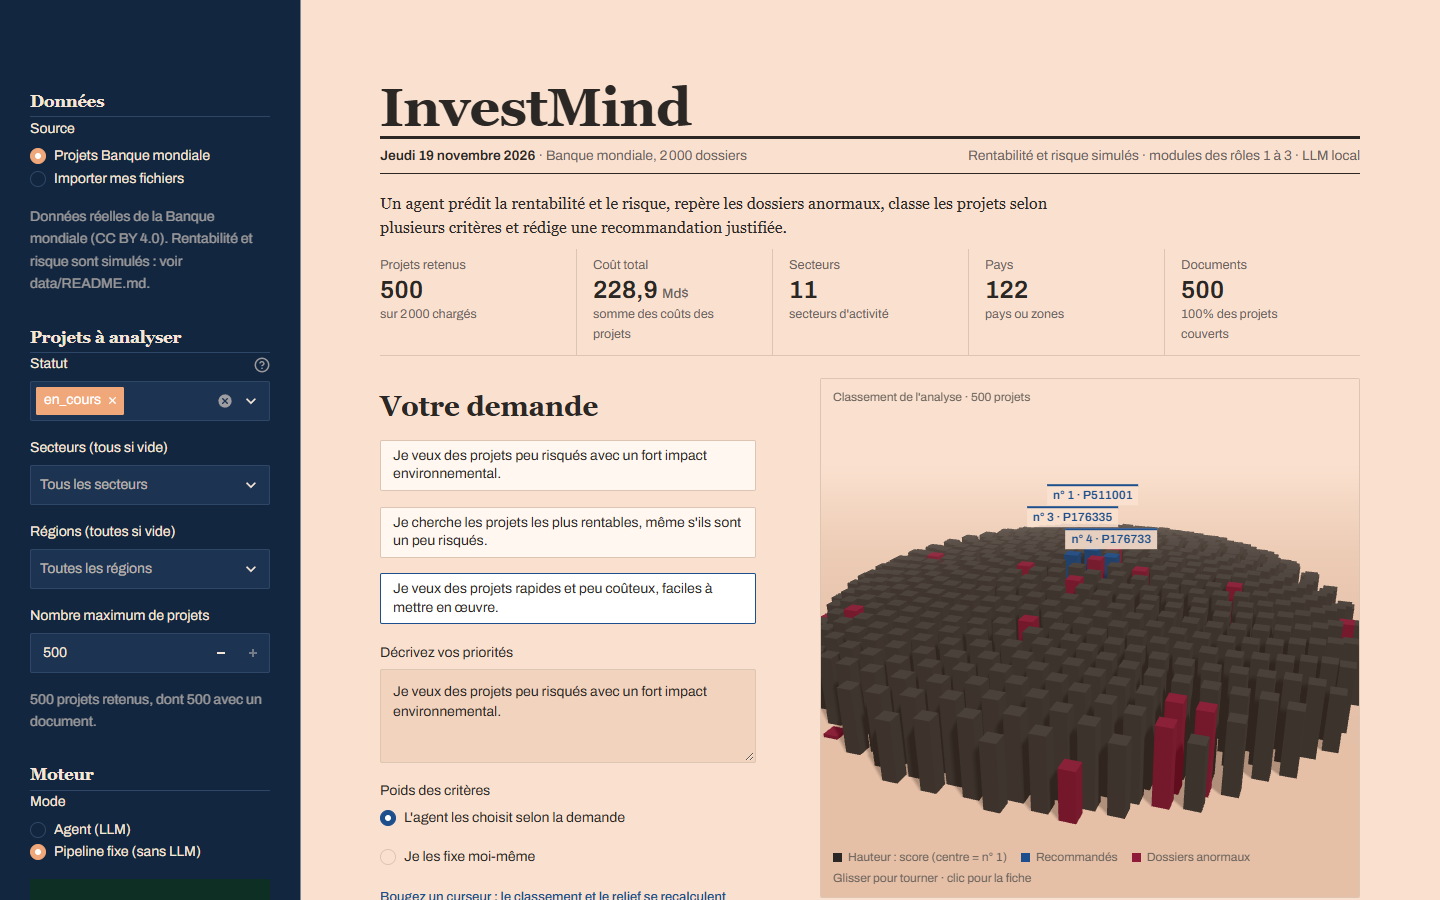
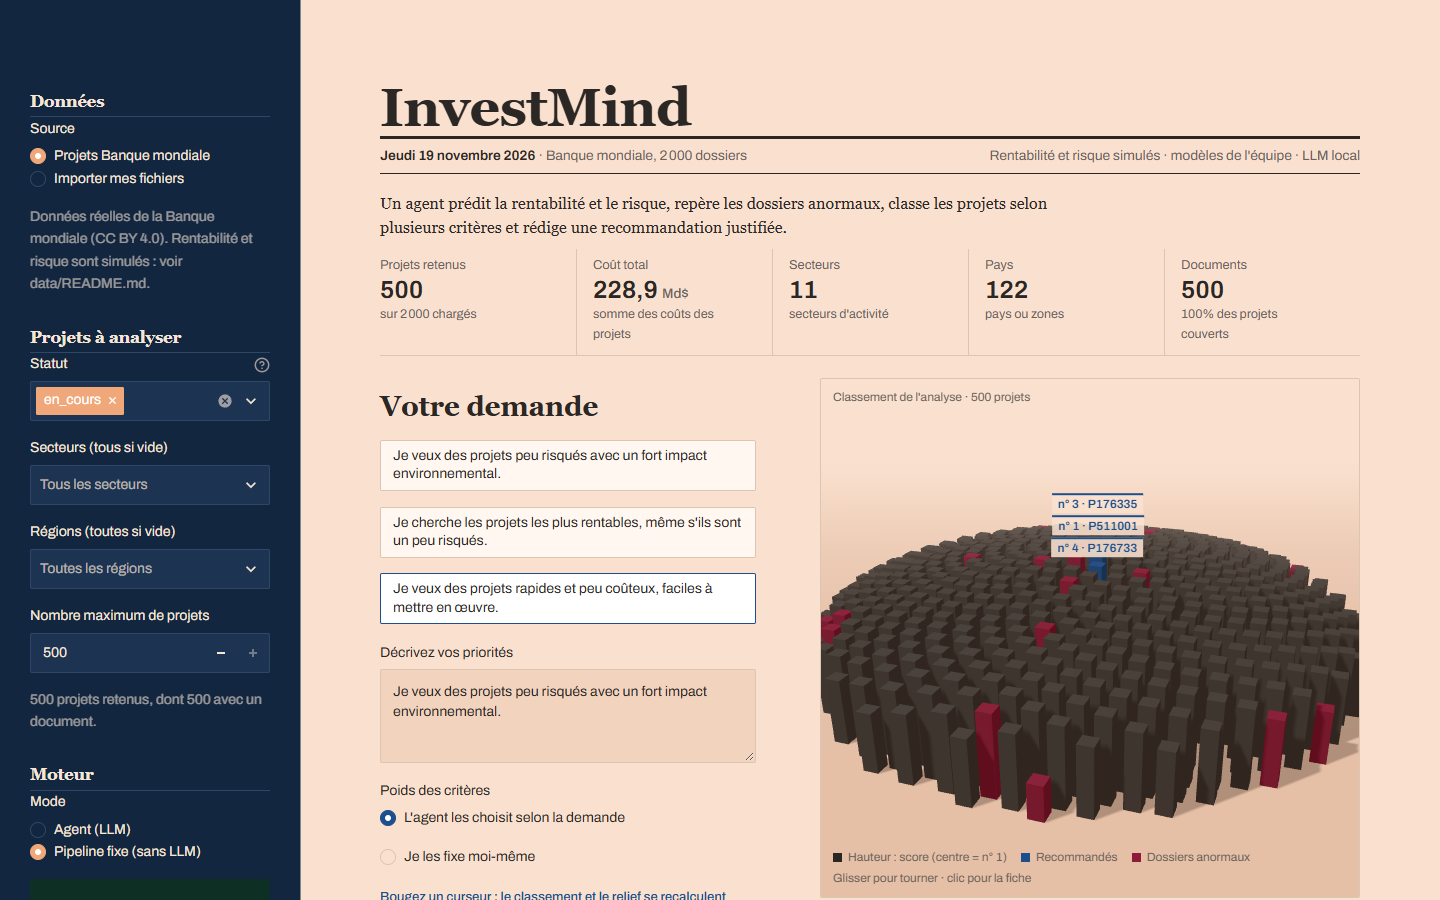
Relecture complète : documentation, plan et rapports mis à jour, libellés de l'application, capture refaite

diff --git a/app/app.py b/app/app.py
@@ -4,7 +4,7 @@ L'application ne calcule rien elle-même : elle charge les projets, transmet la
 demande à l'agent (src/agent.py) et affiche ce qu'il rend. Lancement :
     streamlit run app/app.py
 
-Trois fichiers l'accompagnent dans ce dossier :
+Ce dossier contient aussi :
 - style.css      : l'habillage (papier saumon, manchette, cartes, journal) ;
 - composants.py  : les blocs écrits en HTML (bandeau, cartes, alerte, journal) ;
 - graphiques.py  : les graphiques Plotly, dont le nuage 3D ;
@@ -168,7 +168,7 @@ def afficher_classement(classement: pd.DataFrame) -> None:
     afficher_graphique(graphiques.figure_meilleurs_scores(classement))
     st.subheader("Classement complet")
     tableau = classement[[c for c in COLONNES_TABLEAU if c in classement]]
-    if "anomalie" in tableau:  # lignes des dossiers anormaux sur fond rouge sombre
+    if "anomalie" in tableau:  # lignes des dossiers anormaux sur fond rose pâle
         surligner = lambda ligne: ["background-color: #f7dcd9; color: #5c0f24" if ligne["anomalie"] else ""] * len(ligne)  # noqa: E731
         tableau = tableau.style.apply(surligner, axis=1).format(precision=3, decimal=",")
     st.dataframe(tableau, hide_index=True, width="stretch", column_config=COLONNES_TABLEAU)
@@ -457,7 +457,7 @@ with st.sidebar:
     st.caption(f"Modules : {outils.description_modules()}")
 
 reels = outils.modules_reels()
-modules = ("fonctions factices" if not reels else "modules des rôles 1 à 3" if not outils.utilise_mocks()
+modules = ("fonctions factices" if not reels else "modèles de l'équipe" if not outils.utilise_mocks()
            else "modules réels : " + ", ".join(sorted(reels)))
 afficher_html(f'<div class="manchette"><span><b>{composants.propre(date_du_jour().capitalize())}</b> · '
               f'Banque mondiale, {composants.nombre(nb_charges)} dossiers</span>'

diff --git a/src/agent.py b/src/agent.py
@@ -45,7 +45,8 @@ FICHIER_RELANCE = FICHIER_PROMPT.with_name("relance.txt")  # message envoyé apr
 CRITERES_TEXTE = ("impact_env_social", "alignement_strategique", "faisabilite")
 NOTE_NEUTRE = 3  # note donnée à un projet sans document lisible
 NB_RECOMMANDES = 3
-# retrieve cherche dans tout le corpus : on demande large, puis on garde les passages des projets analysés.
+# On demande large à retrieve, puis on garde les passages des projets analysés (indispensable avec une
+# version de retrieve sans le paramètre documents, qui cherche dans tout le corpus).
 NB_PASSAGES_CHERCHES = 50
 DELAI_LLM_S = 600  # attente maximale d'une réponse du LLM, en secondes (OLLAMA_TIMEOUT pour changer)
 TAILLE_CONTEXTE = 8192  # jetons gardés en mémoire par le LLM : prompt, outils et résumés doivent y tenir

diff --git a/src/outils.py b/src/outils.py
@@ -45,7 +45,7 @@ def description_modules() -> str:
     if not reels:
         return "fausses fonctions (USE_MOCKS=1)"
     if reels == set(MODULES):
-        return "vrais modules des rôles 1 à 3"
+        return "modèles de l'équipe (supervisé, multicritère, NLP)"
     return f"vrais modules : {', '.join(sorted(reels))} ; fausses fonctions pour les autres"
 
 

diff --git a/docs/architecture.md b/docs/architecture.md
@@ -1,4 +1,4 @@
-# Architecture (rôle 4)
+# Architecture de l'agent et de l'application
 
 ## Vue d'ensemble
 
@@ -27,7 +27,7 @@ src/outils.py  (par défaut : vrais modules | USE_MOCKS=1 : src/mocks.py)
 3. `predire` : `predict` sur chaque projet, pour la rentabilité et le risque.
 4. `detecter_anomalies` : `detect_anomalies` sur l'ensemble.
 5. `classer(poids)` : construit la matrice des sept critères et appelle `rank`.
-6. `chercher_passages(question, k)` : `retrieve`, pour citer un passage qui justifie la recommandation. La question est écrite en anglais par le LLM, comme les documents. L'agent transmet à `retrieve` les documents des projets analysés (paramètre `documents`, contrat du 18 novembre), puis garde par sécurité les `k` premiers passages qui viennent de ces projets. Avec une version de `retrieve` sans ce paramètre, il demande 50 passages sur tout le corpus et filtre de la même façon.
+6. `chercher_passages(question, k)` : `retrieve`, pour citer un passage qui justifie la recommandation. La description de l'outil demande une question en anglais, la langue des documents ; si le LLM n'appelle pas l'outil, l'agent le fait lui-même (voir plus bas). L'agent transmet à `retrieve` les documents des projets analysés (paramètre `documents`, contrat du 18 novembre), puis garde par sécurité les `k` premiers passages qui viennent de ces projets. Avec une version de `retrieve` sans ce paramètre, il demande 50 passages sur tout le corpus et filtre de la même façon.
 7. Rédiger la recommandation : les trois premiers projets, pourquoi, les alertes, les limites.
 
 L'ordre n'est pas imposé en dur : le LLM choisit les outils. Le prompt système (`prompts/systeme.txt`) décrit la démarche attendue, et les tests vérifient le comportement avec un faux LLM.
@@ -52,14 +52,14 @@ L'ordre n'est pas imposé en dur : le LLM choisit les outils. Le prompt système
 - **comparaison** exigée par la consigne : on compare l'agent (le LLM choisit les outils et les poids) à ce modèle simple (ordre fixe, poids par défaut ou imposés) ;
 - **secours** pour la démonstration si Ollama ne tourne pas.
 
-Sur les 2 000 projets avec les fausses fonctions, il répond en moins d'une seconde (hors lecture des 2 000 fichiers texte).
+Avec les quatre modules de l'équipe, il analyse 500 projets en 3 à 5 secondes (moins d'une seconde une fois les modèles chargés).
 
 ## Décisions prises
 
 | Sujet | Décision | Raison |
 |---|---|---|
 | LLM | Ollama en local | Gratuit, choix de l'équipe |
-| Modèle | `qwen2.5:3b` par défaut (variable `OLLAMA_MODEL`) | Gère l'appel d'outils sans phase de réflexion : environ 1 minute par analyse sur le PC d'Ilyas. `qwen3:4b` a été écarté, trop lent (voir les essais ci-dessous) |
+| Modèle | `qwen2.5:3b` par défaut (variable `OLLAMA_MODEL`) | Gère l'appel d'outils sans phase de réflexion : environ deux minutes par analyse avec les vrais modules, sur un PC portable sans carte graphique. `qwen3:4b` a été écarté, trop lent (voir les essais ci-dessous) |
 | Contrôle de la recommandation | `controler_recommandation` ajoute au texte du LLM les projets à recommander et les dossiers anormaux qu'il a oubliés | Un modèle de 3 milliards de paramètres oublie des faits ; ce qui peut se vérifier par le code ne doit pas dépendre de lui |
 | Outils du LLM | Cinq outils qui traitent tout le portefeuille | Un appel par projet serait impossible avec 2 000 projets |
 | Boucle de l'agent | Boucle Python maison avec l'appel d'outils du paquet `ollama`, retenue pour la version finale | Une trentaine de lignes, faciles à expliquer. Un cadriciel comme LangGraph n'apporterait rien ici |
@@ -68,15 +68,14 @@ Sur les 2 000 projets avec les fausses fonctions, il répond en moins d'une seco
 | Branchement des modules | `src/outils.py` avec `USE_MOCKS`, ou `MODULES_REELS` module par module (par exemple `MODULES_REELS=nlp`) | Permet d'avancer sans attendre les autres rôles, et d'essayer chaque module dès sa livraison |
 | Déploiement | Démonstration locale filmée | Ollama ne tourne pas sur l'hébergement Streamlit gratuit |
 
-## Décisions ouvertes
+## Décisions prises en cours de route
 
-- 18 nov. : `chercher_passages` presque jamais demandé par `qwen2.5:3b`. Tranché : la recherche est lancée d'office après `classer` (voir « La recherche de passages d'office »).
+- 18 nov. : `chercher_passages` presque jamais demandé par `qwen2.5:3b`. La recherche est lancée d'office après `classer` (voir « La recherche de passages d'office »).
+- 16 et 19 nov. : le prompt système est gardé dans sa formulation d'origine. Deux reformulations essayées le 16 et une modification du 18 ont déplacé les erreurs au lieu de les supprimer (`reports/role4/tests_agent.md`, erreurs E3 et E8).
 
-- Le prompt système est gardé tel quel après deux essais de reformulation qui ont déplacé les erreurs au lieu de les supprimer (même rapport).
+## Évaluation sur cinq scénarios (16 et 19 novembre)
 
-## Évaluation du 16 novembre sur cinq scénarios
-
-Cinq demandes, 30 projets en cours, deux passages, agent et `pipeline_fixe` : protocole, résultats et analyse des erreurs dans `reports/role4/tests_agent.md`. Les scénarios et les vérifications automatiques sont dans `src/scenarios.py`, l'évaluation se relance avec `python scripts/evaluer_agent.py --passages 2`.
+Cinq demandes, 30 projets en cours, deux passages, agent et `pipeline_fixe`, avec les fausses fonctions le 16 novembre puis avec les quatre vrais modules le 19 : protocole, résultats et analyse des erreurs dans `reports/role4/tests_agent.md`. Les scénarios et les vérifications automatiques sont dans `src/scenarios.py`, l'évaluation se relance avec `python scripts/evaluer_agent.py --passages 2`.
 
 Deux corrections de `src/agent.py` en sont sorties :
 
@@ -101,7 +100,7 @@ PC : Ryzen 5 7520U, 16 Go de mémoire, calcul sur processeur. Demande : « Je ve
 - Avec le prompt système et les cinq outils, un seul tour a demandé environ 4 600 jetons de réflexion : 10 minutes par tour lors d'un premier essai, 33 minutes lors d'une mesure isolée. L'essai complet a été arrêté après deux tours (20 minutes).
 - Les outils choisis étaient les bons (`extraire_criteres`, `predire`, `detecter_anomalies`, `classer`), mais `extraire_criteres` a été appelé deux fois et `classer` sans poids. Le contexte par défaut d'Ollama (4 096 jetons) était dépassé par la réflexion ; il est maintenant fixé à 8 192.
 
-Conclusion : l'agent n'est pas utilisable en démonstration avec ce modèle sur ce PC. Pistes : un modèle sans réflexion de taille voisine (par exemple `qwen2.5:3b` ou `llama3.2:3b`), à mesurer de la même façon. En attendant, un délai de 600 secondes par réponse (`OLLAMA_TIMEOUT`) fait basculer l'agent sur le secours sans LLM.
+Conclusion : l'agent n'est pas utilisable en démonstration avec ce modèle sur ce PC. `qwen2.5:3b`, sans phase de réflexion, a été mesuré de la même façon et retenu (section précédente). Le délai de 600 secondes par réponse (`OLLAMA_TIMEOUT`) reste en place : au-delà, l'agent bascule sur le secours sans LLM.
 
 ## Application
 
@@ -111,7 +110,7 @@ Trois zones :
 
 - **barre latérale** (bleu nuit) : source des données (jeu Banque mondiale ou fichiers importés), filtres, mode (agent ou pipeline fixe), comparaison, état d'Ollama ;
 - **haut de page** : manchette (nom du produit, date, rappel que rentabilité et risque sont simulés), bandeau de chiffres du portefeuille retenu, puis deux colonnes : à gauche la demande, ses trois exemples, les poids et le bouton « Analyser » ; à droite le relief 3D du portefeuille et la fiche du projet cliqué ;
-- **résultats**, en onglets : Recommandation (cartes des trois projets, alerte sur les dossiers anormaux, texte rédigé), Classement (dix meilleurs scores et tableau complet), Vue 3D (nuage Plotly), Journal des étapes, Explication (poids utilisés, graphique SHAP à venir), Comparaison (agent face au pipeline fixe).
+- **résultats**, en onglets : Recommandation (cartes des trois projets, alerte sur les dossiers anormaux, texte rédigé), Classement (dix meilleurs scores et tableau complet), Vue 3D (nuage Plotly), Journal des étapes, Explication (graphique SHAP du modèle de rentabilité, poids utilisés), Comparaison (agent face au pipeline fixe).
 
 ### Fichiers
 
@@ -144,7 +143,7 @@ Streamlit relance tout le script à chaque clic. Pour éviter cet effet de page 
 - le relief 3D reste le même d'un clic à l'autre : seules ses données changent, et les colonnes glissent vers leur nouvelle place.
 - avec les vrais modules (le défaut), les modèles de texte de `extract` et `retrieve` sont chargés dès l'ouverture de l'application (`prechauffer_modeles`, mis en cache) : la première analyse ne paie pas leur chargement, une quinzaine de secondes.
 
-Ce qui reste lent : l'analyse par l'agent (environ une minute, le LLM tourne sur le processeur).
+Ce qui reste lent : l'analyse par l'agent (environ deux minutes, le LLM tourne sur le processeur).
 
 ### Relief 3D
 

diff --git a/docs/organisation/plan-role4.md b/docs/organisation/plan-role4.md
@@ -17,13 +17,13 @@ Dernière mise à jour : 20 novembre 2026.
 | 1 | Créer le dépôt Git et inviter l'équipe | Réunion de lancement | dim. 15 nov. | terminé (dépôt public créé le 16 nov., équipe invitée, branche `main` protégée, relecture obligatoire) | Dépôt GitHub avec la structure de dossiers |
 | 2 | Fausses fonctions | Contrat commun | lun. 16 nov. | terminé | `src/mocks.py`, `src/contrat.py`, `tests/test_contrat.py` |
 | 3 | Coder l'agent | Tâche 2 | jeu. 19 nov. | terminé (16 nov. : essai réel réussi avec `qwen2.5:3b` en 58 s ; qualité à mesurer à la tâche 5) | `src/agent.py`, `prompts/systeme.txt`, `tests/test_agent.py`. Cinq outils sur tout le portefeuille, `pipeline_fixe` comme référence et secours |
-| 4 | Coder l'application Streamlit | Tâches 2 et 3. Graphique SHAP du rôle 1 (factice en attendant) | ven. 20 nov. | terminé (16 nov. : application codée et redessinée ; graphique SHAP factice en attendant le rôle 1) | `app/app.py`, `app/composants.py`, `app/graphiques.py`, `app/style.css`, `.streamlit/config.toml`, `tests/test_app.py` |
-| 5 | Tester l'agent sur 5 scénarios | Tâche 3 | sam. 21 nov. | terminé avec les fausses fonctions (16 nov. : 5 scénarios, 2 passages, agent et pipeline fixe ; à refaire après la tâche 6 avec `python scripts/evaluer_agent.py --passages 2`) | `tests/test_agent.py`, `reports/role4/tests_agent.md`, `src/scenarios.py`, `scripts/evaluer_agent.py`, `reports/role4/scenarios/resultats_scenarios.csv` |
+| 4 | Coder l'application Streamlit | Tâches 2 et 3. Graphique SHAP du rôle 1 | ven. 20 nov. | terminé (16-17 nov. : application codée et redessinée ; 19 nov. : graphique SHAP du rôle 1 branché) | `app/app.py`, `app/composants.py`, `app/graphiques.py`, `app/style.css`, `.streamlit/config.toml`, `tests/test_app.py` |
+| 5 | Tester l'agent sur 5 scénarios | Tâche 3 | sam. 21 nov. | terminé (16 nov. avec les fausses fonctions, refait le 19 nov. avec les vrais modules) | `tests/test_agent.py`, `reports/role4/tests_agent.md`, `src/scenarios.py`, `scripts/evaluer_agent.py`, `reports/role4/scenarios/resultats_scenarios.csv` |
 | 6 | Intégration des vrais modules | IMPOSSIBLE avant `predict` (rôle 1), `rank` (rôle 2), `extract` et `retrieve` (rôle 3), attendus le 21 | mar. 24 nov. | terminé (19 nov. : les quatre modules sur `main`, 5 scénarios relancés avec `USE_MOCKS=0`, voir `reports/role4/tests_agent.md` section 9) | Application complète en local |
-| 7 | Déploiement ou démonstration locale | Tâche 6 | mar. 24 nov. | bloqué | Démonstration prête à filmer |
-| 8 | README final | Tâche 6, sources des données | mer. 25 nov. | en cours (18 nov. : version complète, à vérifier après l'intégration) | `README.md` |
+| 7 | Déploiement ou démonstration locale | Tâche 6 | mar. 24 nov. | prête (19 nov. : application lancée avec les quatre modules, captures dans `docs/images/` ; vidéo le 28) | Démonstration prête à filmer |
+| 8 | README final | Tâche 6, sources des données | mer. 25 nov. | terminé (19-20 nov. : README final, captures, badges, licence) | `README.md` |
 | 9 | Partie du rapport (LLM, agents, architecture, tests) | Tâche 5, puis tâche 6 pour les résultats | brouillon sam. 21, final ven. 27 | brouillon complet (19 nov. : résultats d'intégration ajoutés), version finale le 27 | 4 à 6 pages, 3 à 4 diapositives |
-| 10 | Assembler rapport et présentation | Parties des rôles 1, 2 et 3 | ven. 27 nov. | bloqué | Rapport et PowerPoint complets |
+| 10 | Assembler rapport et présentation | Parties des rôles 1, 2 et 3 | ven. 27 nov. | à faire (les quatre brouillons sont livrés) | Rapport et PowerPoint complets |
 
 ## Jalons communs
 
@@ -47,3 +47,4 @@ Dernière mise à jour : 20 novembre 2026.
 - 18 nov. : brouillon de la partie 4 du rapport (`reports/role4/rapport_partie4.md`) : théorie (LLM, prompt, appel d'outils, agents, RAG), architecture, choix du modèle, méthode et résultats de l'évaluation, analyse des erreurs, limites, plan des diapositives. Résultats avec les vrais modules à ajouter après la tâche 6.
 - 18 nov. : README réécrit : présentation, rôles et modules, installation (Ollama, modèle d'embeddings), lancement de l'application, variables d'environnement, tests, reproduction des résultats (données, recherche, agent), données et mise en garde sur les cibles simulées, limites, équipe, licences.
 - 19 nov. : les quatre modules livrés et fusionnés après relecture (31 pull requests). Intégration : 5 scénarios relancés avec les vrais modules ; une erreur introduite par la modification du prompt du 18 nov. (exemple recopié, demande hors sujet analysée) diagnostiquée et corrigée en rétablissant la formulation d'origine. Graphique SHAP du rôle 1 dans l'application. Produit renommé InvestMind ; README final avec captures.
+- 20 nov. : nettoyage du dépôt (rangement de `reports/role4/` et `docs/organisation/`, versions figées, licence MIT, tests sur GitHub Actions), vrais modules par défaut dans l'application, relecture complète des fichiers.

diff --git a/reports/role4/tests_agent.md b/reports/role4/tests_agent.md
@@ -8,7 +8,7 @@ Vérifier que l'agent se comporte correctement sur des demandes variées, et le 
 
 **Ce qui est évalué.** Le comportement de l'agent : outils demandés, poids tirés de la demande, fidélité du texte aux chiffres rendus par les outils, honnêteté quand il ne sait pas.
 
-**Ce qui n'est pas évalué.** La qualité des prédictions, des notes et du classement. Les modules des rôles 1, 2 et 3 ne sont pas encore livrés : les essais tournent avec les fausses fonctions (`USE_MOCKS=1`). Les rentabilités, risques et notes sont donc factices, et aucun projet cité ici n'est réellement « bon » ou « mauvais ».
+**Ce qui n'est pas évalué.** La qualité des prédictions, des notes et du classement. Sections 2 à 8 : essais du 16 novembre, quand les modules des rôles 1, 2 et 3 n'étaient pas encore livrés ; les essais tournent avec les fausses fonctions (`USE_MOCKS=1`). Les rentabilités, risques et notes sont donc factices, et aucun projet cité ici n'est réellement « bon » ou « mauvais ».
 
 ## 2. Protocole
 
@@ -52,7 +52,7 @@ Pour les trois projets et l'alerte, on distingue le texte écrit par le LLM et l
 
 **Limite sur les passages.** La fausse fonction `retrieve` ne connaît que cinq documents d'exemple (P001 à P005). Sur les 30 projets réels, `chercher_passages` ne trouve donc jamais rien. La seule réponse honnête est « Passage cité : aucun ». Ce cas teste bien l'honnêteté, mais pas la qualité des citations.
 
-## 3. Résultats (état final du code)
+## 3. Résultats du 16 novembre (fausses fonctions)
 
 Fichier : `reports/role4/scenarios/resultats_scenarios.csv`. Textes complets : `reports/role4/scenarios/sorties_scenarios.json`.
 
@@ -185,7 +185,7 @@ Chaque erreur observée, sa cause probable et ce qui a été fait.
 
 ## 7. Limites
 
-- **Chiffres factices.** Avec les fausses fonctions, seul le comportement de l'agent est jugé. L'évaluation est à refaire après l'intégration (`USE_MOCKS=0`), avec le même script.
+- **Chiffres factices.** Avec les fausses fonctions, seul le comportement de l'agent est jugé. L'évaluation a été refaite avec les vrais modules le 19 novembre (section 9).
 - **Citations non testées.** La fausse recherche ne trouve rien sur les projets réels.
 - **Petit modèle.** `qwen2.5:3b` (3,1 milliards de paramètres) est sensible à la formulation du prompt et recopie plus qu'il ne rédige. Un modèle plus gros n'a pas pu être essayé sur ce matériel dans un délai utilisable.
 - **Petit échantillon.** 30 projets, 5 demandes, 2 passages : assez pour repérer des erreurs, pas pour donner un taux de réussite fiable.
@@ -199,10 +199,12 @@ Chaque erreur observée, sa cause probable et ce qui a été fait.
 | `src/scenarios.py` | Les cinq scénarios, les 30 projets, les vérifications |
 | `scripts/evaluer_agent.py` | Lance l'évaluation (`--passages`, `--scenarios`, `--suffixe`) |
 | `tests/test_agent.py` | Les scénarios en tests : pipeline fixe (sans LLM) et vrai modèle (`python -m pytest -m llm`) |
-| `reports/role4/scenarios/resultats_scenarios.csv`, `sorties_scenarios.json` | État final du code |
-| `reports/*_avant_corrections.*` | Première évaluation, avant toute correction |
-| `reports/*_correction1.*` | Scénario 1 relancé après la correction E1 |
-| `reports/*_essai_crochets.*`, `*_essai_alertes.*` | Les deux reformulations du prompt, non gardées |
+| `reports/role4/scenarios/resultats_scenarios_integration.csv`, `sorties_scenarios_integration.json` | Évaluation finale, avec les quatre vrais modules (19 novembre, section 9) |
+| `reports/role4/scenarios/resultats_scenarios.csv`, `sorties_scenarios.json` | Évaluation du 16 novembre, fausses fonctions, après les corrections E1 et E2 |
+| `reports/role4/scenarios/*_avant_corrections.*` | Première évaluation, avant toute correction |
+| `reports/role4/scenarios/*_correction1.*` | Scénario 1 relancé après la correction E1 |
+| `reports/role4/scenarios/*_essai_crochets.*`, `*_essai_alertes.*` | Les deux reformulations du prompt, non gardées |
+| `reports/role4/scenarios/*_integration_prompt18nov.*`, `*_diagnostic*` | Erreur E8 : évaluation avec le prompt du 18 novembre et diagnostic |
 
 ## 9. Intégration du 19 novembre : les quatre vrais modules
 

diff --git a/reports/role4/rapport_partie4.md b/reports/role4/rapport_partie4.md
@@ -73,7 +73,8 @@ Les quatre rôles ont fixé dès le départ un contrat commun (`docs/contrat.md`
 - les arguments inventés par le LLM sont ignorés, seuls ceux que l'outil accepte sont transmis ;
 - les poids proposés sont ramenés à une somme de 1, et ceux fixés par l'utilisateur passent avant ;
 - les dossiers anormaux sont retirés des trois projets recommandés ;
-- après la rédaction, un contrôle ajoute les projets et les alertes oubliés, et signale une citation qui n'a pas été rendue par `chercher_passages` ;
+- si le LLM ne cherche pas de passage après `classer`, l'agent le fait lui-même, avec les noms des projets recommandés ;
+- après la rédaction, un contrôle ajoute les projets et les alertes oubliés, et signale une citation qui ne figure pas mot pour mot dans un passage rendu par `chercher_passages` ;
 - si le LLM rend une réponse vide, l'agent le relance une fois ;
 - si Ollama ne répond pas ou si le LLM ne termine pas en dix tours, l'agent finit sans LLM et le dit.
 
@@ -180,7 +181,7 @@ L'application Streamlit ne calcule rien : elle charge les projets, appelle l'age
 
 - la demande, avec trois exemples, et des curseurs pour fixer les poids ;
 - un relief 3D du portefeuille, une colonne par projet, dont la hauteur est le score et la couleur distingue les projets recommandés et les dossiers anormaux ;
-- les trois projets recommandés, l'alerte sur les dossiers anormaux, le classement complet, le journal des étapes et la comparaison avec le pipeline fixe.
+- les trois projets recommandés, l'alerte sur les dossiers anormaux, le classement complet, le journal des étapes, la comparaison avec le pipeline fixe et le graphique SHAP du modèle de rentabilité (rôle 1).
 
 Après une analyse, bouger les curseurs refait le classement sans relancer l'agent. Tout tourne en local : le LLM, les polices et la bibliothèque 3D sont sur la machine, l'application ne contacte aucun service externe.
 

diff --git a/README.md b/README.md
@@ -113,7 +113,7 @@ pip install -r requirements.txt
 ollama pull qwen2.5:3b
 ```
 
-Sous macOS ou Linux : `source .venv/bin/activate`. Un processeur suffit, aucune carte graphique n'est nécessaire. Au premier lancement, le modèle d'embeddings (80 Mo) est téléchargé et l'index des 8 293 passages est calculé (environ 4 minutes) ; les modèles des rôles 1 et 2 sont appris en quelques secondes. Ensuite tout fonctionne sans Internet.
+Sous macOS ou Linux : `source .venv/bin/activate`. Un processeur suffit, aucune carte graphique n'est nécessaire. Au premier lancement, le modèle d'embeddings (80 Mo) est téléchargé et l'index des 8 293 passages est calculé (environ 4 minutes) ; les modèles de prédiction et de détection d'anomalies sont appris en quelques secondes. Ensuite tout fonctionne sans Internet.
 
 ## Lancer l'application
 
